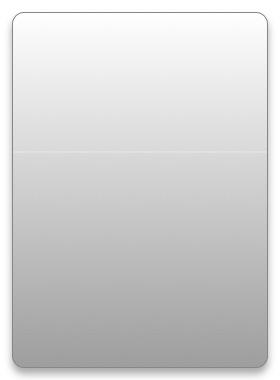
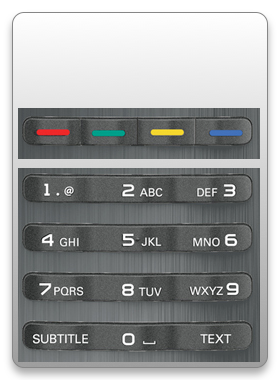
Added simple numeric and color buttons UI

diff --git a/philips-remote.dcproj/project/widget.wdgt/main.css b/philips-remote.dcproj/project/widget.wdgt/main.css
@@ -73,55 +73,37 @@ body {
     margin-right: auto;
 }
 
-#grid {
+#gridNumerics {
     overflow: hidden;
     display: none;
     padding: 0px;
-    width: 252px;
+    width: 228px;
     cursor: default;
     -khtml-user-select: none;
-    border: 1px solid rgb(224, 224, 224);
+    border-width: 1px;
+    border-color: rgb(224, 224, 224);
     position: absolute;
-    top: 151px;
+    top: 169px;
     bottom: auto;
     margin-top: 0px;
-    left: 13px;
+    left: 24px;
 }
 
 .gridCellTemplate_template {
     position: relative;
     list-style-type: none;
     overflow: hidden;
-    border: 1px solid rgb(224, 224, 224);
+    border-width: 1px;
+    border-color: rgb(224, 224, 224);
     display: inline-block;
-    height: 80px;
-    width: 90px;
+    height: 48px;
+    width: 77px;
     margin-left: -1px;
     margin-top: -1px;
     margin-bottom: -4px;
-}
-
-.cellImage_template {
-    width: 48px;
-    height: 48px;
-    margin-top: 8px;
-    margin-left: auto;
-    margin-right: auto;
-    position: relative;
-    display: block;
-}
-
-.icellImage_template {
-    position: absolute;
-    bottom: 0px;
-    right: 0px;
-    left: 0px;
-    top: 0px;
-    margin: auto;
-    max-width: 100%;
-    max-height: 100%;
-    width: auto;
-    height: auto;
+    -khtml-margin-top-collapse: separate;
+    -khtml-margin-bottom-collapse: separate;
+    opacity: 0.45;
 }
 
 .cellLabel_template {
@@ -143,4 +125,106 @@ body {
 
 body.DC_windowInactive .gridCellTemplate_template.selected {
     background-color: rgb(212, 212, 212);
+}
+
+#imageNumerics {
+    width: 242px;
+    height: 194px;
+    position: absolute;
+    left: 18px;
+    top: 168px;
+    right: auto;
+    bottom: auto;
+    margin-top: 0px;
+}
+
+#inner_image {
+    position: absolute;
+    bottom: 0px;
+    right: 0px;
+    left: 0px;
+    top: 0px;
+    margin: auto;
+    max-width: 100%;
+    max-height: 100%;
+    width: auto;
+    height: auto;
+}
+
+#imageColors {
+    width: 242px;
+    height: 51px;
+    position: absolute;
+    left: 18px;
+    top: 108px;
+    right: auto;
+    bottom: auto;
+    margin-top: 0px;
+}
+
+#inner_image1 {
+    position: absolute;
+    bottom: 0px;
+    right: 0px;
+    left: 0px;
+    top: 0px;
+    margin: auto;
+    max-width: 100%;
+    max-height: 100%;
+    width: auto;
+    height: auto;
+}
+
+#gridColors {
+    overflow: hidden;
+    display: none;
+    padding: 0px;
+    width: 228px;
+    cursor: default;
+    -khtml-user-select: none;
+    border-width: 1px;
+    border-color: rgb(224, 224, 224);
+    position: absolute;
+    top: 108px;
+    bottom: auto;
+    margin-top: 0px;
+    left: 24px;
+}
+
+.gridCellTemplate2_template {
+    position: relative;
+    list-style-type: none;
+    overflow: hidden;
+    border-width: 1px;
+    border-color: rgb(224, 224, 224);
+    display: inline-block;
+    height: 48px;
+    width: 58px;
+    margin-left: -1px;
+    margin-top: -1px;
+    margin-bottom: -4px;
+    -khtml-margin-top-collapse: separate;
+    -khtml-margin-bottom-collapse: separate;
+    opacity: 0.45;
+}
+
+.gridCellTemplate2_template.selected {
+    background-color: highlight;
+}
+
+body.DC_windowInactive .gridCellTemplate2_template.selected {
+    background-color: rgb(212, 212, 212);
+}
+
+.cellLabel2_template {
+    position: absolute;
+    bottom: 0px;
+    width: 100%;
+    height: 17px;
+    text-align: center;
+    text-overflow: ellipsis;
+    overflow: hidden;
+    white-space: nowrap;
+    font-size: 11px;
+    font-family: 'Lucida Grande', Arial, sans-serif;
 }

diff --git a/philips-remote.dcproj/project/widget.wdgt/main.html b/philips-remote.dcproj/project/widget.wdgt/main.html
@@ -15,12 +15,16 @@
         <img id="frontImg" src="Parts/Images/front.png" alt="" apple-locked="true" apple-part="com.apple.Dashcode.part.frontimage" apple-style="image-theme: 1; image-shape: 3; image-opacity: 1.00; image-top-color: 1.0000,1.0000,1.0000; image-bottom-color: 0.6154,0.6154,0.6154; image-radius: 12,12,12,12; image-border: 1; image-border-color: 0.5294,0.5294,0.5294; image-border-width: 1; shine-strength: 0.9; shine-alpha-level: 0.67; shine-height: 0.50; glass-arc-height: 0.06; shadow-include-shadow: 1; shadow-blur: 9.00; shadow-offset: -1.00,-6.00; shadow-color: 0.0000,0.0000,0.0000,0.3333;">
         <div class="apple-no-children" id="info" apple-part="com.apple.Dashcode.part.infobutton" apple-default-image-visibility="hidden"></div>
         <div apple-part="com.apple.Dashcode.part.text" class="apple-text apple-no-children" id="helloText" apple-group="text" apple-default-image-visibility="hidden" apple-style="part-height-dependent: true;"></div>
-        <ul id="grid" apple-part="com.apple.Dashcode.part.grid" class="">
-            <li id="gridCellTemplate" apple-template="true" class="gridCellTemplate_template last" style="">
-                <div id="cellImage" apple-part="com.apple.Dashcode.part.imageLayout" class="cellImage_template" apple-group="cellImage">
-                    <img id="icellImage" class="apple-hidden icellImage_template" apple-group="cellImage">
-                </div>
+        <div apple-part="com.apple.Dashcode.part.imageLayout" id="imageNumerics" apple-group="image1"><img class="apple-hidden" src="Images/phil_rc_numerics.png" id="inner_image" apple-group="image1"></div>
+        <div apple-part="com.apple.Dashcode.part.imageLayout" id="imageColors" apple-group="image"><img class="apple-hidden" src="Images/phil_rc_color.png" id="inner_image1" apple-group="image"></div>
+        <ul id="gridNumerics" apple-part="com.apple.Dashcode.part.grid" class="">
+            <li id="gridCellTemplate" apple-template="true" class="gridCellTemplate_template first" style="">
                 <div id="cellLabel" apple-part="com.apple.Dashcode.part.text" class="apple-text apple-no-children cellLabel_template" apple-text-overflow="ellipsis"></div>
+            </li>
+        </ul>
+        <ul id="gridColors" apple-part="com.apple.Dashcode.part.grid" class="">
+            <li id="gridCellTemplate2" apple-template="true" class="gridCellTemplate2_template first" style="">
+                <div id="cellLabel2" apple-part="com.apple.Dashcode.part.text" class="apple-text apple-no-children cellLabel2_template" apple-text-overflow="ellipsis"></div>
             </li>
         </ul>
     </div>

diff --git a/philips-remote.dcproj/project/widget.wdgt/main.js b/philips-remote.dcproj/project/widget.wdgt/main.js
@@ -109,13 +109,47 @@ if (window.widget) {
     widget.onsync = sync;
 }
 
+var url = "http://192.168.1.134/api"
+
+
+function restProxy(buttonCode) {
+}
 
 // This object implements the dataSource methods for the list.
-var numericbuttons = {
+var numericButtons = {
 	
 	// Sample data for the content of the list. 
 	// Your application may also fetch this data remotely via XMLHttpRequest.
-	_rowData: ["1", "2", "3", "4", "5"],
+	_rowData: ["1", "2", "3", "4", "5", "6", "7", "8", "9", "s", "0", "t"],
+	
+	// The List calls this method to find out how many rows should be in the list.
+	numberOfRows: function() {
+		return this._rowData.length;
+	},
+	
+	// The List calls this method once for every row.
+	prepareRow: function(rowElement, rowIndex, templateElements) {
+		// templateElements contains references to all elements that have an id in the template row.
+		// Ex: set the value of an element with id="label".
+		/*if (templateElements.cellLabel) {
+			templateElements.cellLabel.innerText = this._rowData[rowIndex];
+		}*/
+
+		// Assign a click event handler for the row.
+		rowElement.onclick = function(event) {
+			// Do something interesting
+			alert("Row "+rowIndex);
+		};
+	}
+};
+
+
+// This object implements the dataSource methods for the list.
+var colorButtons = {
+	
+	// Sample data for the content of the list. 
+	// Your application may also fetch this data remotely via XMLHttpRequest.
+	_rowData: ["red", "green", "yellow", "blue"],
 	
 	// The List calls this method to find out how many rows should be in the list.
 	numberOfRows: function() {

diff --git a/philips-remote.dcproj/project/widget.wdgt/Parts/setup.js b/philips-remote.dcproj/project/widget.wdgt/Parts/setup.js
@@ -5,11 +5,15 @@
  code generator otherwise the changes will be lost.
  */
 var dashcodePartSpecs = {
-    "cellImage": { "view": "DC.ImageLayout" },
-    "cellLabel": { "text": "Item", "view": "DC.Text" },
+    "cellLabel": { "view": "DC.Text" },
+    "cellLabel2": { "view": "DC.Text" },
     "done": { "creationFunction": "CreateGlassButton", "onclick": "showFront", "text": "Done" },
-    "grid": { "allowsEmptySelection": true, "dataArray": ["Item 3"], "dataSourceName": "numericbuttons", "labelElementId": "cellLabel", "sampleRows": 1, "selectionEnabled": true, "useDataSource": true, "view": "DC.List" },
+    "gridColors": { "allowsEmptySelection": true, "dataArray": ["Item 3"], "dataSourceName": "colorButtons", "labelElementId": "cellLabel2", "sampleRows": 4, "selectionEnabled": true, "useDataSource": true, "view": "DC.List" },
+    "gridNumerics": { "allowsEmptySelection": true, "dataArray": ["Item 3"], "dataSourceName": "numericButtons", "labelElementId": "cellLabel", "sampleRows": 4, "selectionEnabled": true, "useDataSource": true, "view": "DC.List" },
     "helloText": { "text": "Hello, World!", "view": "DC.Text" },
+    "imageColors": { "view": "DC.ImageLayout" },
+    "imageNumerics": { "view": "DC.ImageLayout" },
     "info": { "backgroundStyle": "black", "creationFunction": "CreateInfoButton", "foregroundStyle": "white", "frontID": "front", "onclick": "showBack" }
 };
+
 
